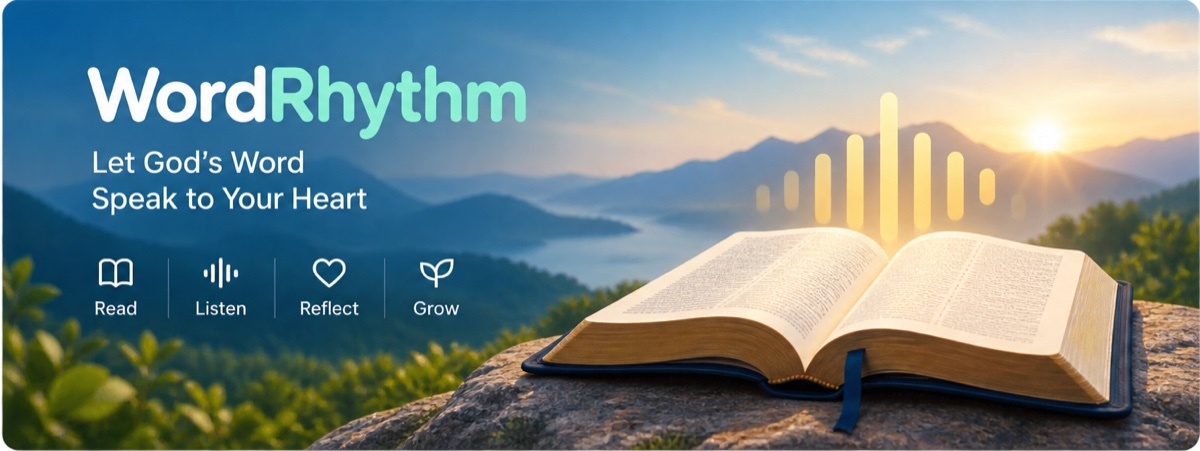
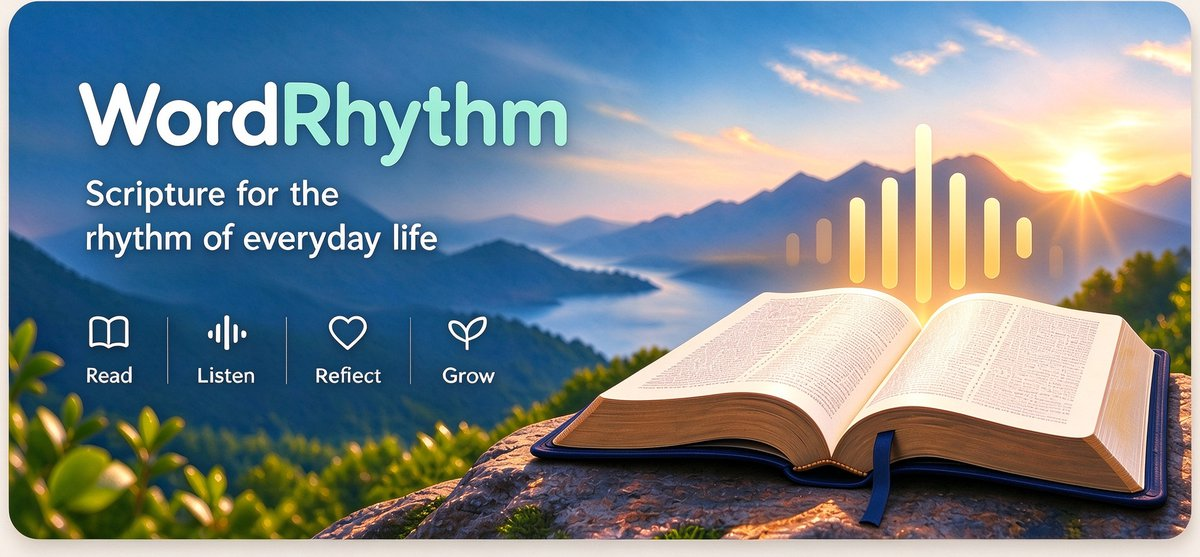
Update brand artwork, footer and SEO basics
- New feature graphic (1200x557) for OG image; drop duplicate banner on home
- Footer: replace Word Rhythm wordmark text with the brand artwork
- Add app/sitemap.ts (17 URLs) and app/robots.ts for search engines
- force-static on metadata routes so output: "export" builds cleanly

diff --git a/app/sitemap.ts b/app/sitemap.ts
@@ -1,0 +1,56 @@
+import type { MetadataRoute } from "next";
+import { publicPrivacyPolicies } from "@/lib/privacy";
+import { versions } from "@/lib/versions";
+
+const BASE = "https://wordrhythm.app";
+
+// Static export (output: "export") needs these metadata routes to be
+// fully static — otherwise `next build` fails to collect their page data.
+export const dynamic = "force-static";
+
+export default function sitemap(): MetadataRoute.Sitemap {
+  const now = new Date();
+
+  const versionPages = versions.map((v) => ({
+    url: `${BASE}/versions/${v.slug}`,
+    lastModified: now,
+    changeFrequency: "monthly" as const,
+    priority: 0.7,
+  }));
+
+  const privacyPages = publicPrivacyPolicies().map((p) => ({
+    url: `${BASE}/privacy/${p.slug}`,
+    lastModified: now,
+    changeFrequency: "yearly" as const,
+    priority: 0.3,
+  }));
+
+  return [
+    {
+      url: BASE,
+      lastModified: now,
+      changeFrequency: "weekly",
+      priority: 1,
+    },
+    {
+      url: `${BASE}/versions`,
+      lastModified: now,
+      changeFrequency: "monthly",
+      priority: 0.9,
+    },
+    ...versionPages,
+    {
+      url: `${BASE}/take-a-break`,
+      lastModified: now,
+      changeFrequency: "monthly",
+      priority: 0.8,
+    },
+    {
+      url: `${BASE}/privacy`,
+      lastModified: now,
+      changeFrequency: "yearly",
+      priority: 0.3,
+    },
+    ...privacyPages,
+  ];
+}

diff --git a/components/Footer.tsx b/components/Footer.tsx
@@ -1,14 +1,18 @@
+import Image from "next/image";
 import Link from "next/link";
 
 export default function Footer() {
   return (
     <footer className="mt-20 border-t border-black/5 bg-surface">
       <div className="mx-auto max-w-5xl px-5 py-10 text-sm text-muted">
-        <div className="flex flex-col gap-4 sm:flex-row sm:items-center sm:justify-between">
-          <div>
-            <p className="font-semibold text-ink">Word Rhythm</p>
-            <p>Scripture for the rhythm of everyday life.</p>
-          </div>
+        <div className="flex flex-col gap-4 sm:flex-row sm:items-end sm:justify-between sm:gap-6">
+          <Image
+            src="/brand/og.jpg"
+            alt="Word Rhythm — Scripture for the rhythm of everyday life"
+            width={1200}
+            height={557}
+            className="w-full max-w-md rounded-2xl shadow-card sm:max-w-sm"
+          />
           <nav className="flex flex-wrap gap-4">
             <Link href="/versions" className="hover:text-ink">
               Versions

diff --git a/app/page.tsx b/app/page.tsx
@@ -1,4 +1,3 @@
-import Image from "next/image";
 import Hero from "@/components/Hero";
 import RhythmFlow from "@/components/RhythmFlow";
 import Screenshots from "@/components/Screenshots";
@@ -63,17 +62,6 @@ export default function HomePage() {
         />
       )}
       <Hero />
-
-      <section className="mx-auto max-w-5xl px-5 pb-6">
-        <Image
-          src="/brand/og.jpg"
-          alt="Word Rhythm — Let God's Word speak to your heart. Read, Listen, Reflect, Grow."
-          width={1200}
-          height={451}
-          priority
-          className="w-full rounded-3xl shadow-card"
-        />
-      </section>
 
       <RhythmFlow />
 

diff --git a/app/robots.ts b/app/robots.ts
@@ -1,0 +1,18 @@
+import type { MetadataRoute } from "next";
+
+// Static export (output: "export") needs these metadata routes to be
+// fully static — otherwise `next build` fails to collect their page data.
+export const dynamic = "force-static";
+
+export default function robots(): MetadataRoute.Robots {
+  return {
+    rules: [
+      {
+        userAgent: "*",
+        allow: "/",
+      },
+    ],
+    sitemap: "https://wordrhythm.app/sitemap.xml",
+    host: "https://wordrhythm.app",
+  };
+}

diff --git a/app/layout.tsx b/app/layout.tsx
@@ -26,8 +26,8 @@ export const metadata: Metadata = {
       {
         url: "/brand/og.jpg",
         width: 1200,
-        height: 451,
-        alt: "Word Rhythm — Let God's Word speak to your heart. Read, Listen, Reflect, Grow.",
+        height: 557,
+        alt: "Word Rhythm — Scripture for the rhythm of everyday life",
       },
     ],
   },
